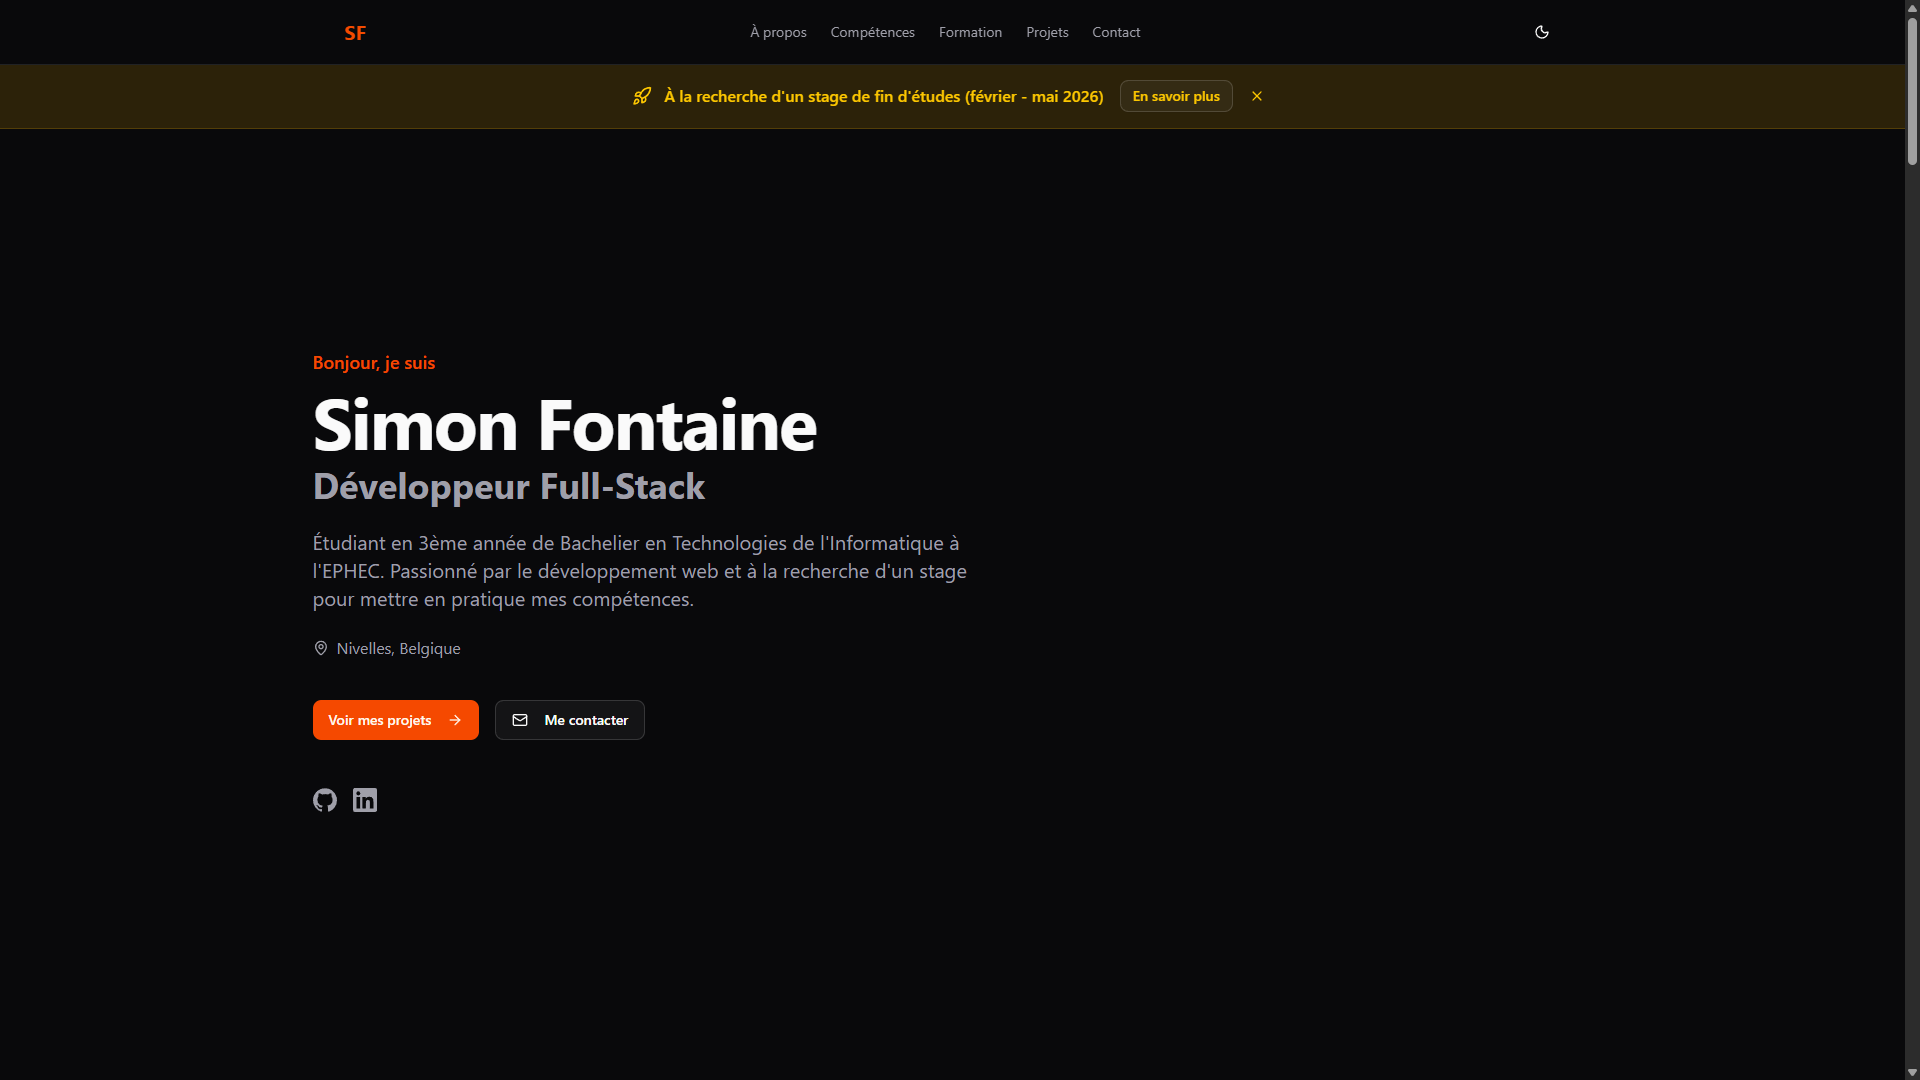
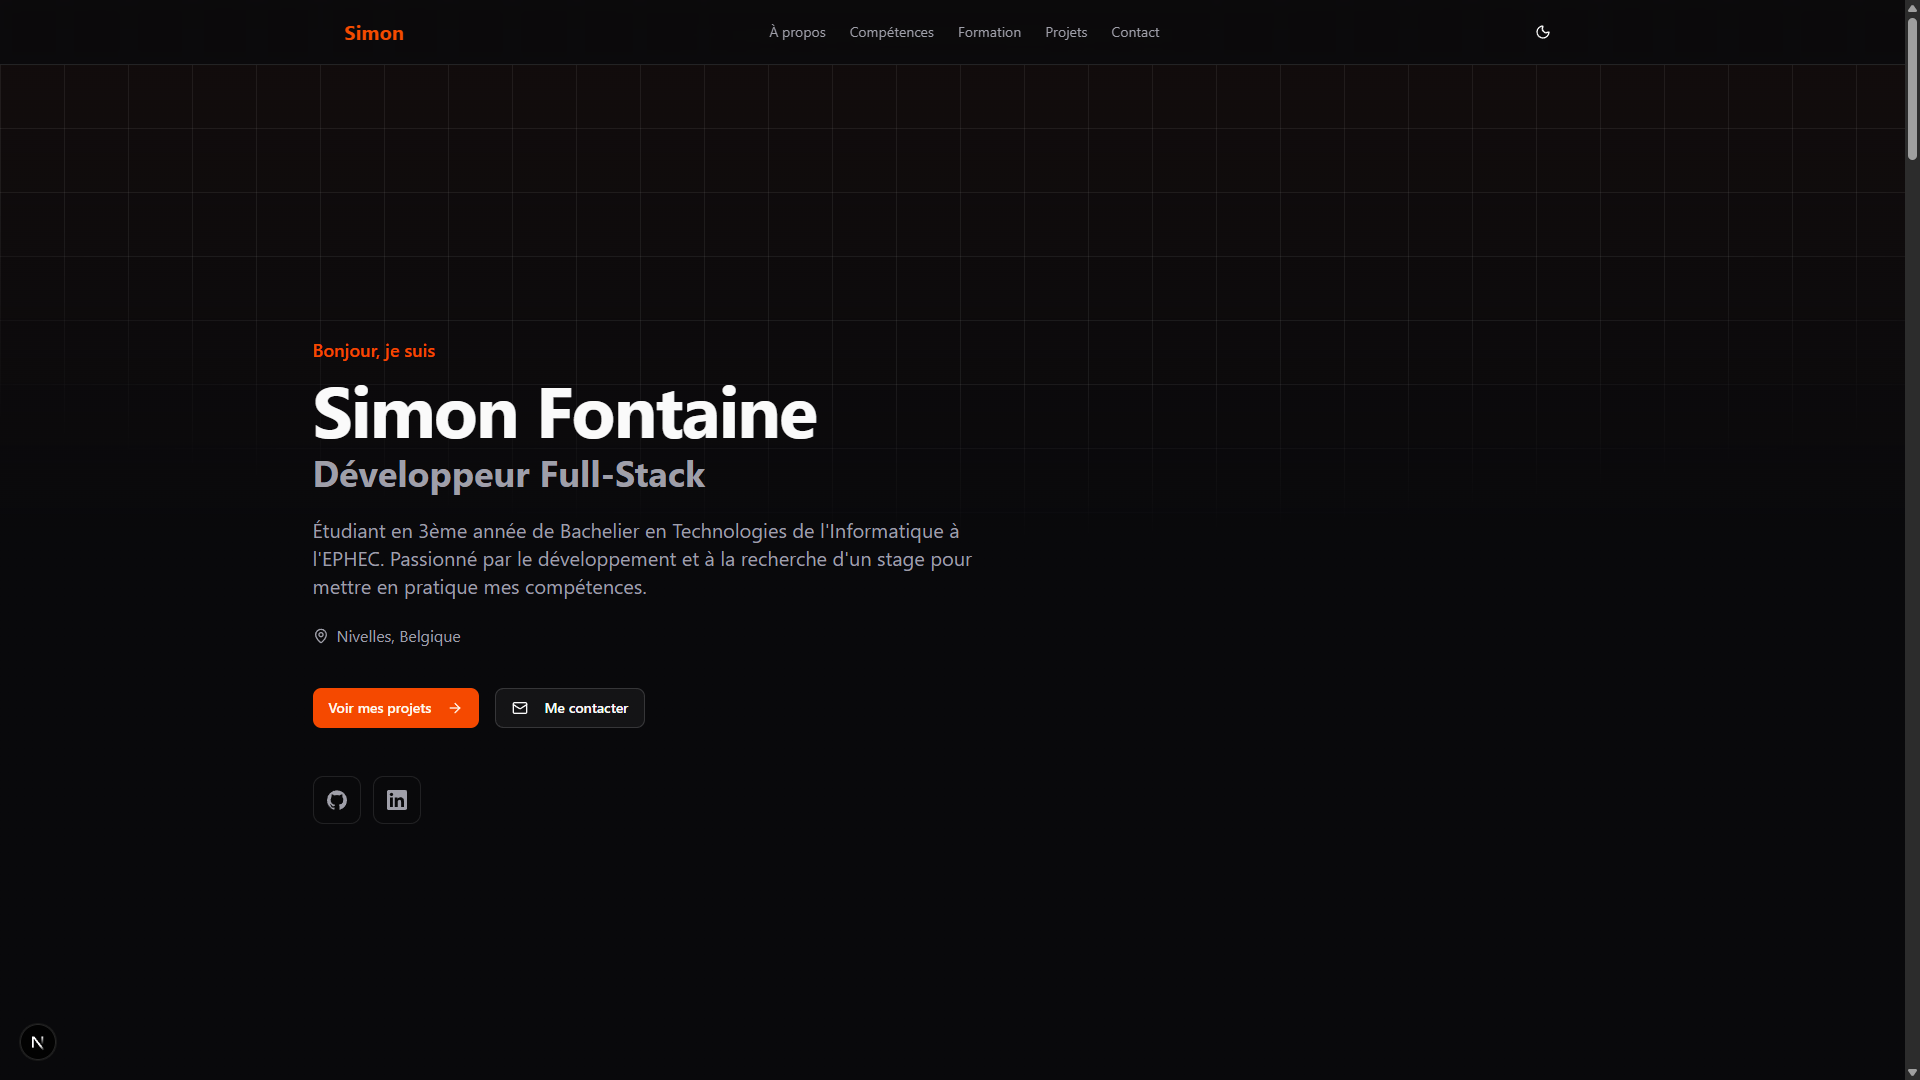
feat: updated about me and project section, and added a project

Changed region(s): [[0.1562, 0.3056, 0.5, 0.7028], [0.0, 0.0306, 1.0, 0.1222], [0.1562, 0.7333, 0.2188, 0.7639]]

diff --git a/src/components/sections/projects.tsx b/src/components/sections/projects.tsx
@@ -1,6 +1,7 @@
 "use client";
 
 import { motion } from "framer-motion";
+import { ExternalLink } from "lucide-react";
 import Image from "next/image";
 import { useTheme } from "next-themes";
 import { useEffect, useState } from "react";
@@ -16,6 +17,7 @@ import {
 } from "@/components/ui/card";
 import {
   Carousel,
+  type CarouselApi,
   CarouselContent,
   CarouselItem,
   CarouselNext,
@@ -27,6 +29,7 @@ interface Project {
   description: string;
   technologies: string[];
   githubUrl?: string;
+  liveUrl?: string;
   image?: string;
   imageLight?: string;
   imageDark?: string;
@@ -37,7 +40,7 @@ const projects: Project[] = [
   {
     title: "Book Worm",
     description:
-      "Développement d'une application mobile multiplateforme en React Native dans le cadre d'une équipe internationale (Belgique, Canada, Danemark). Conception d'une interface moderne, intégration d'une API externe et mise en place d'un système d'authentification via Supabase. ",
+      "Développement d'une application mobile multiplateforme en React Native dans le cadre d'une équipe internationale (Belgique, Canada, Danemark). Conception d'une interface moderne, intégration d'une API externe et mise en place d'un système d'authentification via Supabase.",
     technologies: ["React Native", "TypeScript", "Supabase", "Expo"],
     githubUrl:
       "https://github.com/Simon-Fontaine/rnss25-group-7-simon-guillaume-rehat-mostafa",
@@ -60,19 +63,52 @@ const projects: Project[] = [
       "Portfolio moderne développé avec Next.js 15, TypeScript et Tailwind CSS. Intègre des animations fluides avec Framer Motion et supporte le thème sombre/clair.",
     technologies: ["Next.js", "TypeScript", "Tailwind CSS", "Framer Motion"],
     githubUrl: "https://github.com/Simon-Fontaine/portfolio",
+    liveUrl: "https://simonfontaine.com",
     imageLight: "/images/projects/portfolio-light.png",
     imageDark: "/images/projects/portfolio-dark.png",
     imageAlt: "Capture d'écran du portfolio personnel",
+  },
+  {
+    title: "SurvieCraft Bot Discord",
+    description:
+      "Bot Discord complet pour la gestion d'une communauté Minecraft de 20 000+ membres. Système avancé de modération avec auto-modération, tickets joueurs/staff avec transcriptions HTML, giveaways interactifs, système de rôles personnalisables, statistiques en temps réel et logs détaillés. Interface moderne avec slash commands, boutons interactifs et menus déroulants.",
+    technologies: ["Node.js", "Discord.js v14", "MongoDB", "Mongoose"],
+    githubUrl: "https://github.com/Simon-Fontaine/SurvieCraft-V3",
+    liveUrl: "https://scbots.gitbook.io/surviecraft/",
+    image: "/images/projects/surviecraft.png",
+    imageAlt: "Logo du bot Discord SurvieCraft",
   },
 ];
 
 export function ProjectsSection() {
   const { theme, resolvedTheme } = useTheme();
   const [mounted, setMounted] = useState(false);
+  const [api, setApi] = useState<CarouselApi>();
+  const [current, setCurrent] = useState(0);
+  const [count, setCount] = useState(0);
 
   useEffect(() => {
     setMounted(true);
   }, []);
+
+  useEffect(() => {
+    if (!api) {
+      return;
+    }
+
+    setCount(api.scrollSnapList().length);
+    setCurrent(api.selectedScrollSnap() + 1);
+
+    const handleSelect = () => {
+      setCurrent(api.selectedScrollSnap() + 1);
+    };
+
+    api.on("select", handleSelect);
+
+    return () => {
+      api.off("select", handleSelect);
+    };
+  }, [api]);
 
   const getProjectImage = (project: Project) => {
     if (project.imageLight && project.imageDark) {
@@ -87,7 +123,7 @@ export function ProjectsSection() {
 
   return (
     <SectionContainer id="projets" ariaLabel="Mes projets">
-      <div className="max-w-5xl mx-auto">
+      <div className="max-w-6xl mx-auto">
         <div className="space-y-4 mb-8 sm:mb-12">
           <h2 className="text-3xl sm:text-4xl md:text-5xl font-bold">
             Projets
@@ -102,8 +138,10 @@ export function ProjectsSection() {
           whileInView={{ opacity: 1, y: 0 }}
           viewport={{ once: true }}
           transition={{ duration: 0.5 }}
+          className="space-y-6"
         >
           <Carousel
+            setApi={setApi}
             opts={{
               align: "start",
               loop: true,
@@ -111,67 +149,118 @@ export function ProjectsSection() {
             className="w-full"
           >
             <CarouselContent className="-ml-2 md:-ml-4">
-              {projects.map((project) => {
+              {projects.map((project, index) => {
                 const projectImage = getProjectImage(project);
                 return (
                   <CarouselItem
                     key={project.title}
-                    className="pl-2 md:pl-4 basis-[85%] md:basis-[90%]"
+                    className="pl-2 md:pl-4 basis-[95%] sm:basis-[85%] md:basis-[48%] lg:basis-[48%]"
                   >
-                    <Card className="h-full flex flex-col">
-                      {projectImage && (
-                        <div className="relative w-full h-48 sm:h-64 md:h-80 overflow-hidden rounded-t-xl flex-shrink-0">
-                          <Image
-                            src={projectImage}
-                            alt={project.imageAlt || project.title}
-                            fill
-                            className="object-cover"
-                            sizes="(max-width: 768px) 100vw, (max-width: 1200px) 80vw, 1000px"
-                          />
-                        </div>
-                      )}
-                      <CardHeader className="flex-shrink-0">
-                        <CardTitle className="text-xl sm:text-2xl">
-                          {project.title}
-                        </CardTitle>
-                        {project.githubUrl && (
-                          <CardAction>
-                            <a
-                              href={project.githubUrl}
-                              target="_blank"
-                              rel="noopener noreferrer"
-                              className="text-muted-foreground hover:text-foreground focus:outline-none focus:ring-2 focus:ring-primary focus:ring-offset-2 rounded transition-colors"
-                              aria-label={`Voir le code source de ${project.title} sur GitHub`}
-                            >
-                              <SiGithub className="size-6" aria-hidden="true" />
-                            </a>
-                          </CardAction>
+                    <motion.div
+                      initial={{ opacity: 0, y: 20 }}
+                      whileInView={{ opacity: 1, y: 0 }}
+                      viewport={{ once: true }}
+                      transition={{ duration: 0.5, delay: index * 0.1 }}
+                      className="h-full"
+                    >
+                      <Card className="h-full flex flex-col group hover:shadow-lg transition-shadow duration-300 overflow-hidden">
+                        {projectImage && (
+                          <div className="relative w-full aspect-video overflow-hidden flex-shrink-0 bg-gradient-to-br from-muted/50 to-muted border-b">
+                            <Image
+                              src={projectImage}
+                              alt={project.imageAlt || project.title}
+                              fill
+                              className="object-contain p-6 transition-transform duration-300 group-hover:scale-105"
+                              sizes="(max-width: 768px) 95vw, (max-width: 1200px) 48vw, 600px"
+                              priority={index === 0}
+                            />
+                          </div>
                         )}
-                        <CardDescription className="text-sm sm:text-base">
-                          {project.description}
-                        </CardDescription>
-                      </CardHeader>
-                      <CardContent className="flex-shrink-0 mt-auto">
-                        <ul className="flex flex-wrap gap-2 list-none">
-                          {project.technologies.map((tech) => (
-                            <li key={tech}>
-                              <span className="px-3 sm:px-4 py-1.5 rounded-full text-xs sm:text-sm bg-primary/10 text-primary font-medium">
-                                {tech}
-                              </span>
-                            </li>
-                          ))}
-                        </ul>
-                      </CardContent>
-                    </Card>
+                        <CardHeader className="flex-shrink-0 pb-3">
+                          <CardTitle className="text-xl sm:text-2xl flex items-center gap-2">
+                            {project.title}
+                          </CardTitle>
+                          {(project.githubUrl || project.liveUrl) && (
+                            <CardAction>
+                              <div className="flex items-center gap-1">
+                                {project.githubUrl && (
+                                  <a
+                                    href={project.githubUrl}
+                                    target="_blank"
+                                    rel="noopener noreferrer"
+                                    className="text-muted-foreground hover:text-foreground focus:outline-none focus:ring-2 focus:ring-primary focus:ring-offset-2 rounded-full p-2 transition-all hover:bg-muted/50"
+                                    aria-label={`Voir le code source de ${project.title} sur GitHub`}
+                                  >
+                                    <SiGithub
+                                      className="size-5"
+                                      aria-hidden="true"
+                                    />
+                                  </a>
+                                )}
+                                {project.liveUrl && (
+                                  <a
+                                    href={project.liveUrl}
+                                    target="_blank"
+                                    rel="noopener noreferrer"
+                                    className="text-muted-foreground hover:text-foreground focus:outline-none focus:ring-2 focus:ring-primary focus:ring-offset-2 rounded-full p-2 transition-all hover:bg-muted/50"
+                                    aria-label={`Voir le site de ${project.title}`}
+                                  >
+                                    <ExternalLink
+                                      className="size-5"
+                                      aria-hidden="true"
+                                    />
+                                  </a>
+                                )}
+                              </div>
+                            </CardAction>
+                          )}
+                          <CardDescription className="text-sm leading-relaxed pt-2">
+                            {project.description}
+                          </CardDescription>
+                        </CardHeader>
+                        <CardContent className="flex-shrink-0 mt-auto pt-0">
+                          <ul className="flex flex-wrap gap-2 list-none">
+                            {project.technologies.map((tech) => (
+                              <li key={tech}>
+                                <span className="px-3 py-1.5 rounded-full text-xs sm:text-sm bg-primary/10 text-primary font-medium hover:bg-primary/20 transition-colors">
+                                  {tech}
+                                </span>
+                              </li>
+                            ))}
+                          </ul>
+                        </CardContent>
+                      </Card>
+                    </motion.div>
                   </CarouselItem>
                 );
               })}
             </CarouselContent>
-            <div className="hidden sm:block">
+            <div className="hidden lg:block">
               <CarouselPrevious className="left-0 -translate-x-1/2" />
               <CarouselNext className="right-0 translate-x-1/2" />
             </div>
           </Carousel>
+
+          {/* Pagination Indicator */}
+          <div className="flex items-center justify-center gap-4">
+            <div className="flex gap-2">
+              {Array.from({ length: count }, (_, index) => index).map(
+                (index) => (
+                  <button
+                    key={`pagination-dot-${index}`}
+                    type="button"
+                    onClick={() => api?.scrollTo(index)}
+                    className={`h-2 rounded-full transition-all ${
+                      index === current - 1
+                        ? "w-8 bg-primary"
+                        : "w-2 bg-muted-foreground/30 hover:bg-muted-foreground/50"
+                    }`}
+                    aria-label={`Aller au projet ${index + 1}`}
+                  />
+                ),
+              )}
+            </div>
+          </div>
         </motion.div>
 
         <div className="text-center text-muted-foreground py-8 mt-6">

diff --git a/src/components/sections/about.tsx b/src/components/sections/about.tsx
@@ -22,15 +22,18 @@ export function AboutSection() {
         </div>
         <div className="space-y-4 sm:space-y-6 text-base sm:text-lg text-muted-foreground max-w-3xl">
           <p>
-            Développeur full-stack passionné, je suis actuellement en 3ème année
-            de Bachelier en Technologies de l'Informatique à l'EPHEC
-            (Louvain-la-Neuve).
+            Développeur full-stack passionné, actuellement en troisième année de
+            Bachelier en Technologies de l'Informatique à l'EPHEC. J'aime
+            concevoir des applications modernes, performantes et bien
+            structurées, en mettant l'accent sur la qualité du code et
+            l'expérience utilisateur.
           </p>
           <p>
-            Au cours de ma formation, j'ai développé de solides compétences en
-            développement web moderne, avec une spécialisation dans les
-            technologies React, Node.js, et PostgreSQL. J'aime créer des
-            applications performantes et bien architecturées.
+            Au fil de mes projets, j'ai acquis une bonne maîtrise de React,
+            Node.js et PostgreSQL, ainsi que d'outils plus récents comme Next.js
+            et Prisma. Je m'intéresse aussi beaucoup à l'architecture backend, à
+            la sécurité des applications web et à l'auto-hébergement de mes
+            propres services.
           </p>
         </div>
       </motion.div>

diff --git a/src/components/sections/hero.tsx b/src/components/sections/hero.tsx
@@ -12,13 +12,18 @@ export function HeroSection() {
     <SectionContainer
       id="hero"
       ariaLabel="Section d'introduction"
-      className="pt-32 sm:pt-36 lg:pt-40"
+      className="pt-32 sm:pt-36 lg:pt-40 relative overflow-hidden"
     >
+      <div className="absolute inset-0 -z-10">
+        <div className="absolute inset-0 bg-gradient-to-b from-primary/5 via-background to-background" />
+        <div className="absolute inset-0 bg-[linear-gradient(to_right,#8882_1px,transparent_1px),linear-gradient(to_bottom,#8882_1px,transparent_1px)] bg-[size:4rem_4rem] [mask-image:radial-gradient(ellipse_80%_50%_at_50%_0%,#000_70%,transparent_100%)]" />
+      </div>
+
       <motion.div
         initial={{ opacity: 0, y: 20 }}
         animate={{ opacity: 1, y: 0 }}
         transition={{ duration: 0.5 }}
-        className="space-y-6 max-w-4xl"
+        className="space-y-6 max-w-4xl relative z-10"
       >
         <div className="space-y-2">
           <motion.p

diff --git a/src/components/sections/education.tsx b/src/components/sections/education.tsx
@@ -4,8 +4,6 @@ import { motion } from "framer-motion";
 import { Calendar, GraduationCap, MapPin } from "lucide-react";
 import { SectionContainer } from "@/components/section-container";
 
-// Structure de données pour les formations
-// Pour ajouter une nouvelle formation, ajoutez simplement un objet dans ce tableau
 const educationData = [
   {
     id: 1,
@@ -139,7 +137,7 @@ export function EducationSection() {
                       <ul className="grid grid-cols-1 md:grid-cols-2 gap-x-6 gap-y-2">
                         {edu.highlights.map((highlight, i) => (
                           <li
-                            key={i}
+                            key={`${edu.id}-highlight-${i}-${highlight.slice(0, 20)}`}
                             className="flex items-start gap-2 text-sm sm:text-base text-muted-foreground"
                           >
                             <span className="text-primary mt-1 flex-shrink-0 font-bold">

diff --git a/src/components/header.tsx b/src/components/header.tsx
@@ -30,7 +30,7 @@ export function Header() {
             activeSection === "#hero" ? "text-primary" : "text-foreground"
           }`}
         >
-          SF
+          Simon
         </Link>
 
         <div className="hidden md:flex items-center gap-6">
